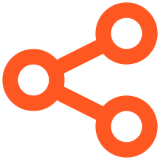
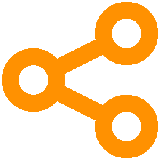
Update web design.
Update web design.

diff --git a/WEBDESIGN/index.html b/WEBDESIGN/index.html
@@ -32,9 +32,8 @@
         <span class="icon-bar"></span>
         <span class="icon-bar"></span>
       </button>
-      <a class="navbar-brand" href="#"><img alt="Brand" src="assets/images/index/logo.png" class="logoimage" alt="Cinque Terre" width="40" height="40"></a>
-      <h1 class="brand-firsttitle">TURA<h1 class="firsttitle-inner">SSIC</h1></h1>
-      <h1 class="brand-title">EXCITING CAR RENTAL EXPERIENCE</h1>
+      <a class="navbar-brand page-scroll" href="#bootstrap-touch-slider"><img alt="Brand" src="assets/images/index/logo.png" class="logoimage" alt="Cinque Terre" width="240" height="40"></a>
+      
     </div>
 
     <!-- Collect the nav links, forms, and other content for toggling -->
@@ -186,11 +185,11 @@
 
 <section id="aboutus">
 <div class="row titlecontatiner wow fadeInUp" data-wow-duration="1200ms" data-wow-delay="300ms">
-  <center><h3 style="color: #FFF">ABOUT US</h3></center>
+  <center><h5 style="color: #FFF;font-size: 17px;">ABOUT US</h5></center>
 </div>  
 <div class="container">
     <div class="row wow fadeInRight">
-    <p class="titlebackgroound">ABOUT US</p>
+    <!-- <p class="titlebackgroound">ABOUT US</p> -->
     <P>TURASSIC is the only rent a car service provider that provides a distinctive transportation solution to the travelers during their stay at any hotel within our partner hotels network, along with many other services and programs that meant to serve and facilitate our members trip. Our services aimed to provide the hotel guests with the privilege of driving a car whenever they need and at any time during their hotel stay.
 Wither the car reservation has been made in-advance or on-spot, our promise is to present a hassles free, simple and flexible car rental experience. Hotel Guests should skip all the long car rental process (Pickup and Return) at the airport, instead they will get their rented car from the hotel, then return it back to the same spot.
     </P>
@@ -211,11 +210,11 @@ Wither the car reservation has been made in-advance or on-spot, our promise is t
 
 <section id="howtoworks">
 <div class="row titlecontatiner wow fadeInUp" data-wow-duration="1200ms" data-wow-delay="300ms">
-  <center><h3 style="color: #FFF">HOW IT WORKS</h3></center>
+  <center><h3 style="color: #FFF;font-size: 17px;margin-top: 10px;">HOW IT WORKS</h3></center>
 </div>
 <div class="row howitworkstitle">
   <center>
-    <h3>Easy steps to your next adventure!</h3>
+    <h3 style="font-size: 17px;">Easy steps to your next adventure!</h3>
     <p>At TURASSIC we did our best to make the car rental a real exciting and interesting experience. 
 Latest technologies and hi-tech solutions were utilized to the privilege of our members.
     </p>
@@ -293,7 +292,7 @@ Latest technologies and hi-tech solutions were utilized to the privilege of our 
         
       </div>
       <div class="row">
-        <a href="listyourhotel.html" style="padding-top: 10px"><h3>LEARN MORE></h3></a>
+        <a href="listyourhotel.html" style="padding-top: 10px;"><h3 style="font-size:13px !important;">LEARN MORE></h3></a>
       </div>
 
 
@@ -306,11 +305,11 @@ Latest technologies and hi-tech solutions were utilized to the privilege of our 
 </section>
 <section id="patnerhotel">
 <div class="row titlecontatiner wow fadeInUp" data-wow-duration="1200ms" data-wow-delay="300ms">
-  <center><h3 style="color: #FFF">PATNER HOTELS</h3></center>
+  <center><h3 style="color: #FFF;font-size: 17px;margin-top: 10px;">PATNER HOTELS</h3></center>
 </div>  
  <div class="container">
 
-      <div class="col-sm-12">
+      <div class="col-sm-12" style="padding: 0px;">
        <div id="google-map-patner" class="wow fadeIn" data-latitude="52.351317" data-longitude="4.915402" data-wow-duration="1000ms" data-wow-delay="400ms"></div> 
       </div>
  
@@ -324,7 +323,7 @@ Latest technologies and hi-tech solutions were utilized to the privilege of our 
          </div>
          <div class="col-sm-8">
            <div class="details">
-          <a href="partnerhotels_details.html"><h3>The Roosevelt Hotel, New York City</h3></a>
+          <a href="partnerhotels_details.html"><h4>The Roosevelt Hotel, New York City</h4></a>
           <div class="star-rating">
               <span class="fa fa-star-o" data-rating="1"></span>
               <span class="fa fa-star-o" data-rating="2"></span>
@@ -346,7 +345,7 @@ Latest technologies and hi-tech solutions were utilized to the privilege of our 
          </div>
          <div class="col-sm-8">
            <div class="details">
-          <a href="partnerhotels_details.html"><h3>Washington Plaza</h3></a>
+          <a href="partnerhotels_details.html"><h4>Washington Plaza</h4></a>
           <div class="star-rating">
               <span class="fa fa-star-o" data-rating="1"></span>
               <span class="fa fa-star-o" data-rating="2"></span>
@@ -368,7 +367,7 @@ Latest technologies and hi-tech solutions were utilized to the privilege of our 
          </div>
          <div class="col-sm-8">
            <div class="details">
-          <a href="partnerhotels_details.html"><h3>Holiday Inn Washington-Capitol</h3></a>
+          <a href="partnerhotels_details.html"><h4>Holiday Inn Washington-Capitol</h4></a>
           <div class="star-rating">
               <span class="fa fa-star-o" data-rating="1"></span>
               <span class="fa fa-star-o" data-rating="2"></span>
@@ -390,7 +389,7 @@ Latest technologies and hi-tech solutions were utilized to the privilege of our 
          </div>
          <div class="col-sm-8">
            <div class="details">
-          <a href="partnerhotels_details.html"><h3>Kimpton Carlyle Hotel Dupont Circle</h3></a>
+          <a href="partnerhotels_details.html"><h4>Kimpton Carlyle Hotel Dupont Circle</h4></a>
           <div class="star-rating">
               <span class="fa fa-star-o" data-rating="1"></span>
               <span class="fa fa-star-o" data-rating="2"></span>
@@ -412,7 +411,7 @@ Latest technologies and hi-tech solutions were utilized to the privilege of our 
          </div>
          <div class="col-sm-8">
            <div class="details">
-          <a href="partnerhotels_details.html"><h3>Grand Hyatt New York</h3></a>
+          <a href="partnerhotels_details.html"><h4>Grand Hyatt New York</h4></a>
           <div class="star-rating">
               <span class="fa fa-star-o" data-rating="1"></span>
               <span class="fa fa-star-o" data-rating="2"></span>
@@ -441,11 +440,17 @@ Latest technologies and hi-tech solutions were utilized to the privilege of our 
 
 <section id="contact">
 <div class="row titlecontatiner wow fadeInUp" data-wow-duration="1200ms" data-wow-delay="300ms">
-  <center><h3 style="color: #FFF">CONTACT US</h3></center>
+  <center><h3 style="color: #FFF;font-size: 17px;margin-top: 10px;">CONTACT US</h3></center>
 </div>
-  <div id="google-map" class="wow fadeIn" data-latitude="52.351317" data-longitude="4.915402" data-wow-duration="1000ms" data-wow-delay="400ms"></div>
+  
   <div id="contact-us" class="parallax">
     <div class="container">
+    <div class="row">
+    <div class="col-sm-12">
+    <div id="google-map" class="wow fadeIn" data-latitude="52.351317" data-longitude="4.915402" data-wow-duration="1000ms" data-wow-delay="400ms" style="box-shadow: 0 4px 8px 0 rgba(0, 0, 0, 0.2), 0 6px 20px 0 rgba(0, 0, 0, 0.19);"></div>
+     </div>
+      
+    </div>
       <div class="row">
         <div class="heading text-center col-sm-8 col-sm-offset-2 wow fadeInUp" data-wow-duration="1000ms" data-wow-delay="300ms">
          

diff --git a/WEBDESIGN/assets/css/index.css b/WEBDESIGN/assets/css/index.css
@@ -249,6 +249,7 @@ hr {
     height: 100%;
     position: relative;
     background: #000000;
+    box-shadow: 0 4px 8px 0 rgba(0, 0, 0, 0.2), 0 6px 20px 0 rgba(0, 0, 0, 0.19);
 }
 .bs-slider:hover {
     cursor: -moz-grab;
@@ -653,7 +654,7 @@ hr {
     padding-top: 50px;
     vertical-align: middle;
     color: #000000;
-    font-size: 17px;
+    font-size: 15px;
 }
 #title{
   color: #FF9100;
@@ -746,7 +747,7 @@ footer { background-color:#0c1a1e; min-height:50px; font-family: 'Open Sans', sa
 .paddingtop-bottom {  margin-top:50px;}
 .footer-ul { list-style-type:none;  padding-left:0px; margin-left:2px;}
 .footer-ul li { line-height:29px; font-size:12px;}
-.footer-ul li a { color:#a0a3a4; transition: color 0.2s linear 0s, background 0.2s linear 0s; }
+.footer-ul li a { color:#a0a3a4; transition: color 0.2s linear 0s, background 0.2s linear 0s;font-size: 10px; }
 .footer-ul i { margin-right:10px;}
 .footer-ul li a:hover {transition: color 0.2s linear 0s, background 0.2s linear 0s; color:#ff670f; }
 
@@ -766,7 +767,7 @@ footer { background-color:#0c1a1e; min-height:50px; font-family: 'Open Sans', sa
  
  .copyright { min-height:40px; background-color:#000000;}
  .copyright p { text-align:left; color:#FF9100; padding:10px 0; margin-bottom:0px;}
- .heading7 { font-size:21px; font-weight:700; color:#d9d6d6; margin-bottom:22px;}
+ .heading7 { font-size:18px; font-weight:500; color:#d9d6d6; margin-bottom:22px;}
  .post p { font-size:12px; color:#FFF; line-height:20px;}
  .post p span { display:block; color:#8f8f8f;}
  .bottom_ul { list-style-type:none; float:right; margin-bottom:0px;}
@@ -877,10 +878,10 @@ a.btn.btn-lg.btn-primary {
 }
 .details{
     padding: 10px;
-    font-size: 20px;
+    font-size: 15px;
 }
 .fa{
-    font-size: 25px !important;
+    font-size: 15px !important;
     color: #FF9100;
 }
 #main-contact-form-patnerhotel{
@@ -900,7 +901,7 @@ a.btn.btn-lg.btn-primary {
     /*border: 1px solid #FF9100;*/
     border-radius: 2px;
     margin-top: 10px;
-    height: 705px;
+    height: 300px;
 }
 /*patner details*/
 #google-map-patner-details{
@@ -970,7 +971,7 @@ a.btn.btn-lg.btn-primary {
     margin-left: 5px;
 }
 .titlecontatiner{
-  height: 70px;
+  height: 40px;
   background-color: #FF9100;
   margin-bottom: 20px;
   box-shadow: 0 4px 8px 0 rgba(0, 0, 0, 0.2), 0 6px 20px 0 rgba(0, 0, 0, 0.19);
